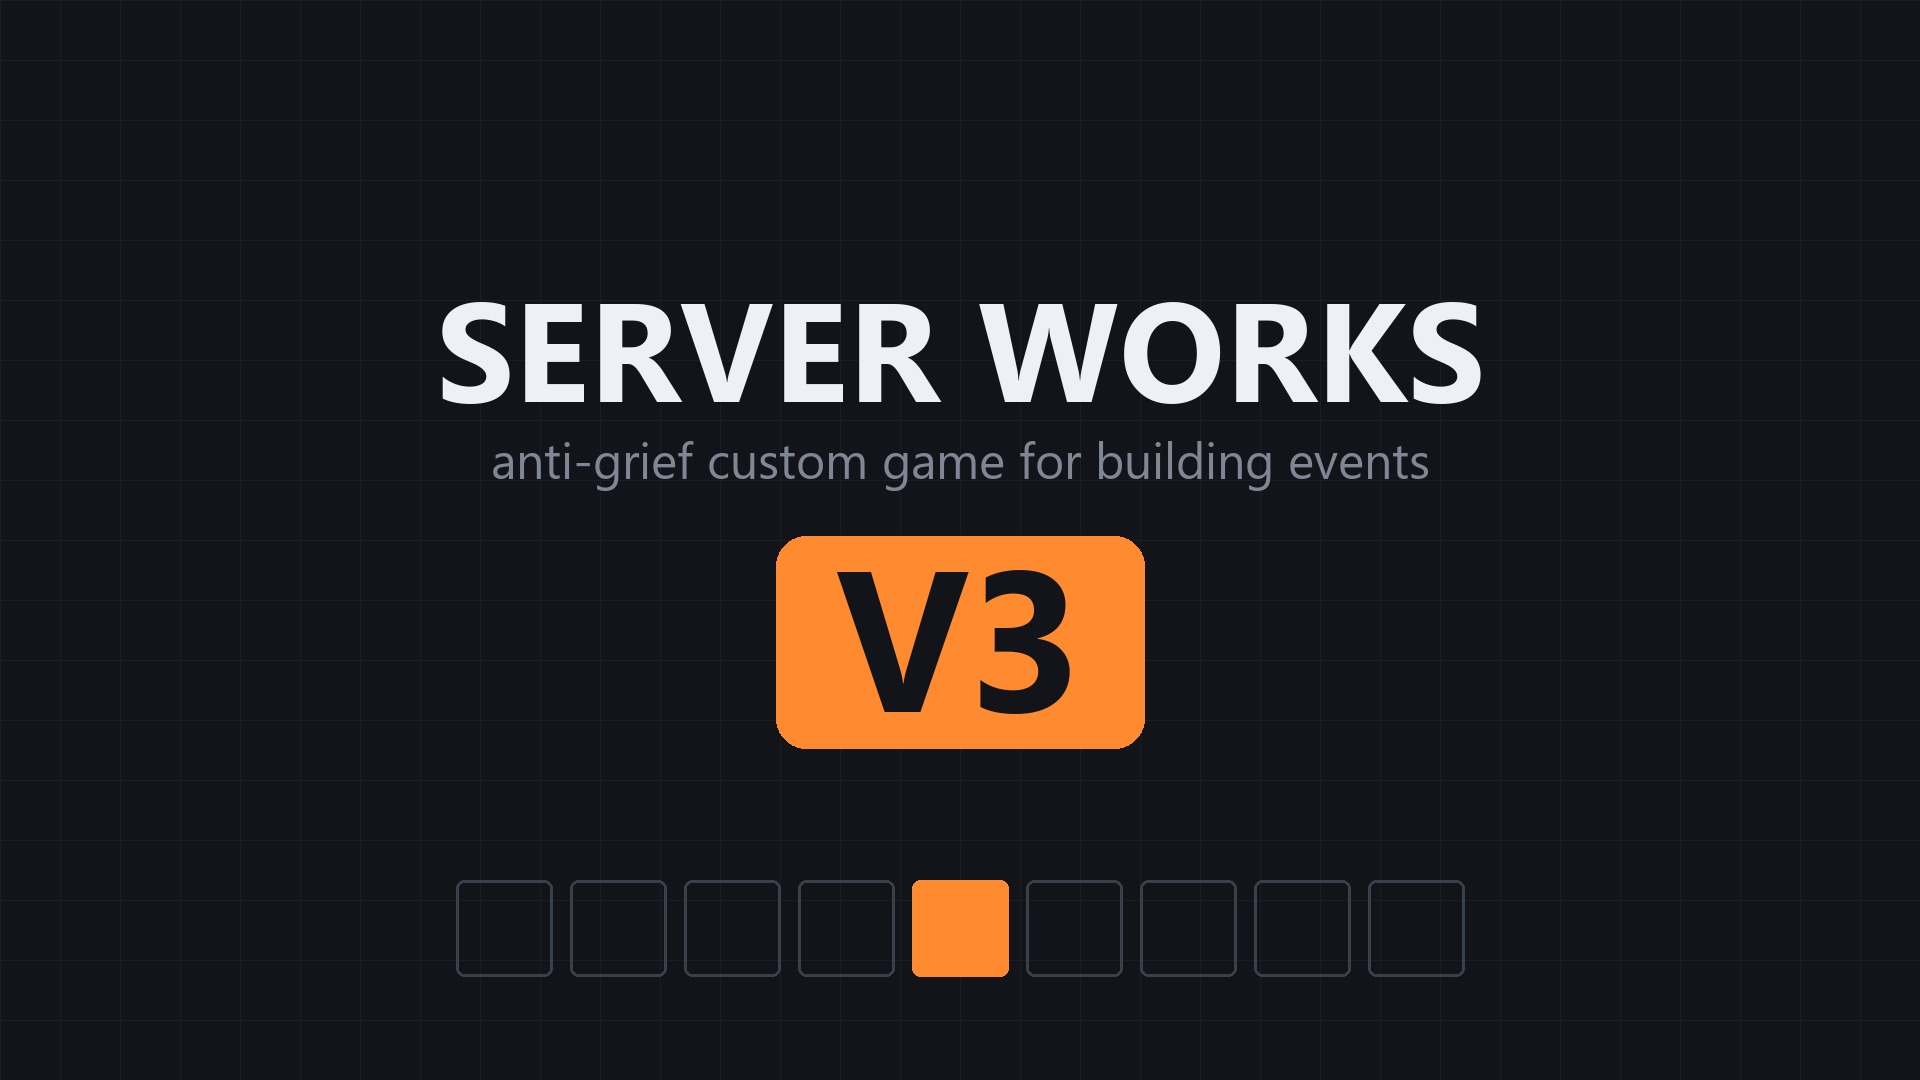
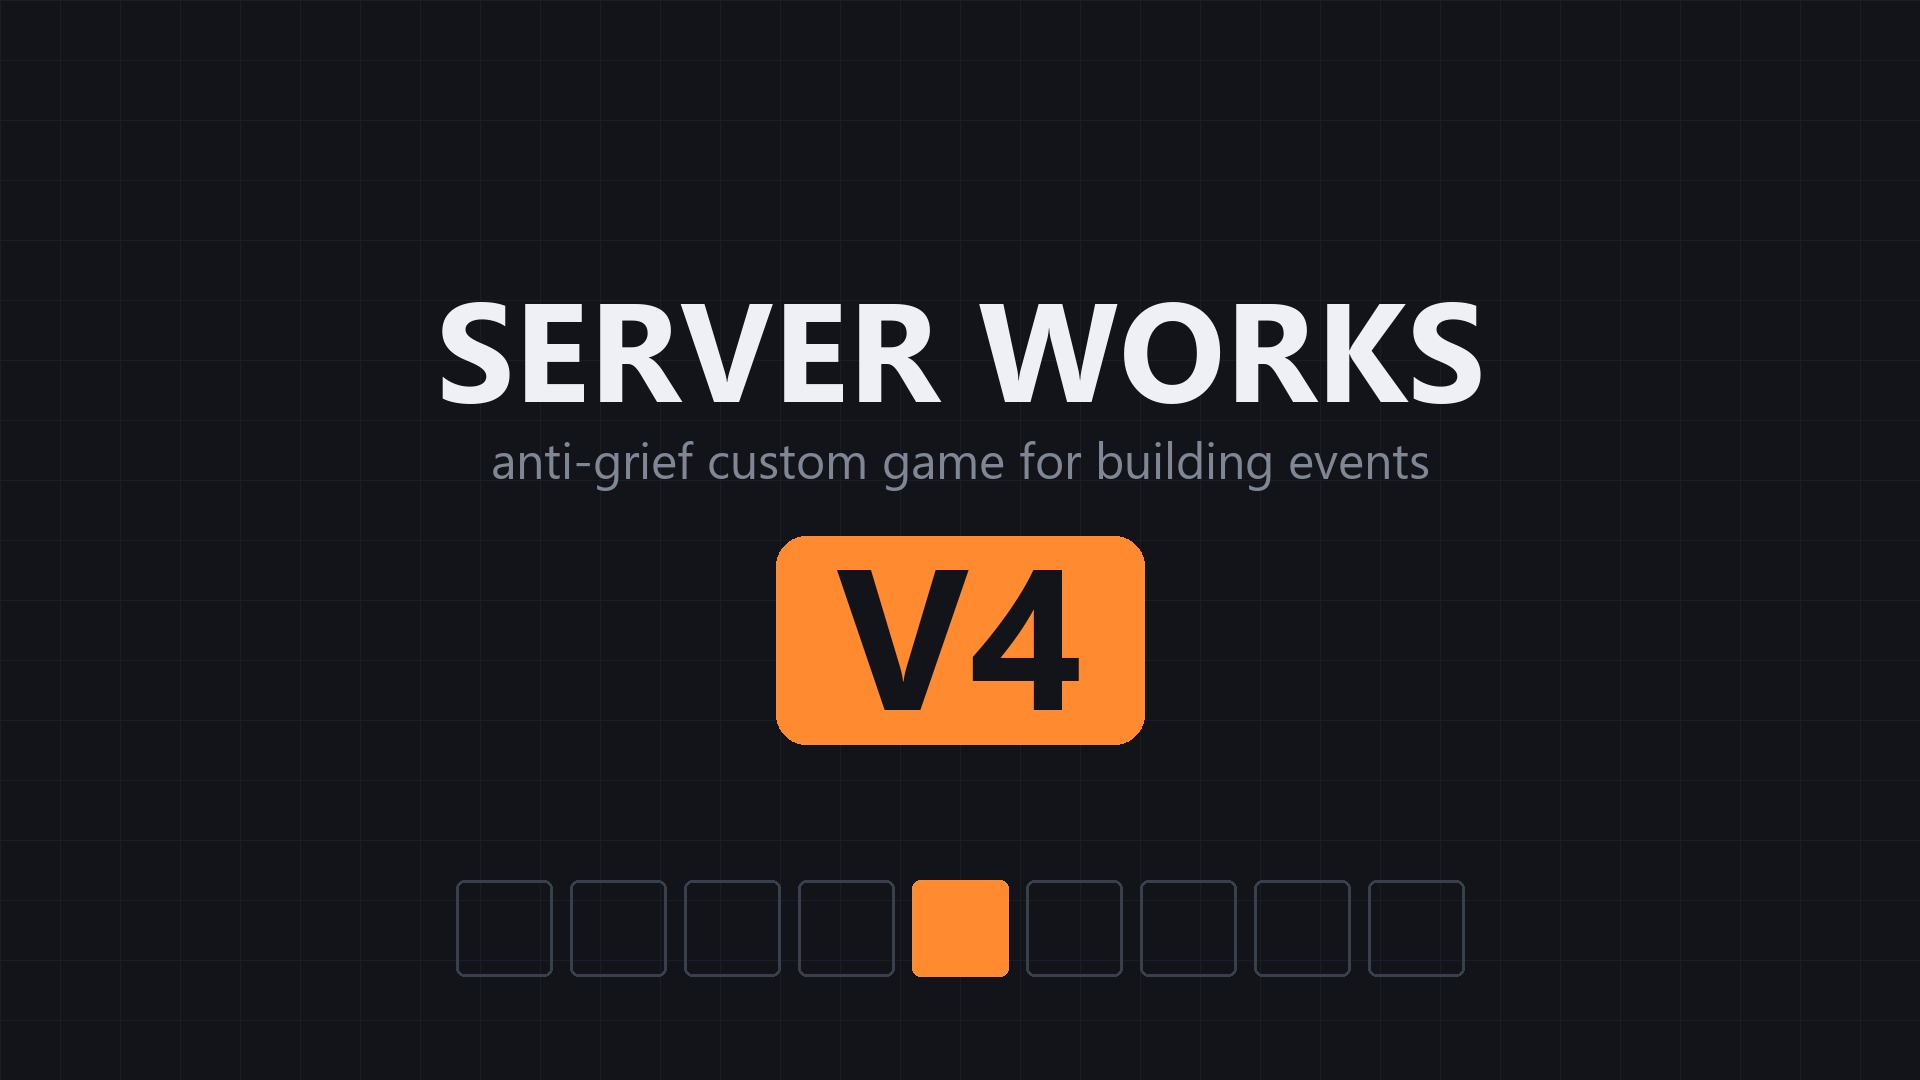
V4: settings panel, /swhelp; cache theory disproved
nugdupS appeared in the creative menu, so mod content does reach the game. The
stale-cache theory is dead and the lift problem is a V2 bug instead.

- Settings panel built from Settings.SCHEMA at runtime rather than a .gui file,
  so adding a setting still costs one schema row and no layout work. Uses
  onClickData (HideoutTrader.lua:318) so one callback serves every row. Every
  click round-trips to the server; the client never decides what is allowed.
- /swhelp as the mod's own help, since the engine reserves /help.
- /settingslist keeps the old chat listing.

Changed region(s): [[0.4062, 0.5194, 0.5938, 0.7028]]

diff --git a/TOMORROW.md b/TOMORROW.md
@@ -1,83 +1,43 @@
-# The stale-cache test — read before launching
+# Where things stand
 
-State: **V3 installed. nugdupS added. Cache deliberately NOT cleared**, so the test
-below is still valid. Do not run `sync_mod.py --clean-cache` until after step 1.
+**V4 installed.** nugdupS confirmed visible in the creative menu, so **mod content does
+reach the game** — the stale-cache theory is disproved and can be dropped.
 
-## The evidence that started this
+That leaves the lift problem as a V2/V3 bug, not a stale mod.
 
-The game keeps a `Cache/` directory **inside the mod folder**:
+## First thing to check: why lifts do not work
 
-    Mods/Server Works/Cache/Raw/game_5ED431A4C9D4E4CE.rco
-                            /world_A5584BCA34E02E16.rco
-                            /protection_72D8B5C91EF3D6FE.rco   ... one per script
-                      /Data/players_1C36AD040C62F3B6.dco
+Type `/protection` in chat.
 
-Measured 2026-08-23:
-
-| file | script written | its cache entry |
+| response | meaning | fix |
 |---|---|---|
-| Game.lua | 23:26:35 | **22:47:36** |
-| World.lua | 23:26:54 | **22:47:36** |
-| Player.lua | 23:26:54 | **22:47:36** |
-| Settings.lua | 23:26:54 | **22:47:36** |
+| `protection: locked` | The world came up locked. `liftable = false` is part of that profile, along with buildable, erasable, paintable and connectable. | `/unlock` — should restore lifts immediately |
+| `protection: open` | Not the lock. Check `buildopen` in `Mods/Server Works/Settings.json`; if false, the resolver in `World.server_onCreate` returns false for every body in the world | `/set buildopen on` |
+| no response at all | The world script is not running | read the log |
 
-Every cache entry is stamped 22:47:36. Every script is newer. The cache was never
-rebuilt across repeated script rewrites — including the whole V2 refactor. If the game
-loads from that cache, no edit since 22:47 has ever run, which is exactly the reported
-symptom and matches the owner's theory.
+If it was `locked`, the cause is the `protection` value now persisted in `Settings.json`
+— new in V2. A run that ended locked comes back locked by design, which is correct
+behaviour for an event but surprising on a test world.
 
-Not yet proof: the `.rco` files might be a build artefact the game ignores at runtime.
-The test below settles it.
-
-## The test
-
-**nugdupS** is a copy of the Spud Gun with a new uuid
-(`748b6656-84b2-440f-8f4c-8cc7deeba63c`), added as new mod content in
-`mod/Tools/Database/`. It behaves exactly like a Spud Gun. It exists only to be
-*visible*: a brand new item in the creative menu is unambiguous in a way a script
-change never is.
-
-### Step 1 — launch as-is, do not clear anything
-
-Search the creative inventory for **nugdupS**.
-
-- **Missing** → mod content is not reaching the game. Theory confirmed. Go to step 2.
-- **Present** → content updates fine, and the "lifts don't work" problem is a bug in
-  V2, not a stale mod. Skip to "If it was not the cache".
-
-Also check the thumbnail in the Custom Game list — it should read **V3**. If it reads
-V1 or V2, that is the same failure showing in a second place.
-
-### Step 2 — clear the cache and relaunch
-
-    python dev/sync_mod.py --clean-cache
-
-Launch again and look for nugdupS.
-
-- **Now present** → the mod cache was the whole problem. `--clean-cache` becomes part
-  of every sync from then on, and the V2 fixes have never actually been tested.
-- **Still missing** → the cache is innocent and something else is stopping content
-  reaching the game. Next suspects: whether a Custom Game auto-discovers
-  `$CONTENT_DATA/Tools/Database/toolsets.tooldb` at all, and whether the item needs a
-  shapeset entry as well as a toolset entry.
-
-`sync_mod.py` now also warns on its own whenever `Cache/` is older than the files it
-just copied.
-
-## If it was not the cache
-
-Then V2 ran and lifts are broken by V2. In game, type `/protection`.
-
-- Reports `locked` → the world came up locked; `liftable = false` is part of that
-  profile. `/unlock` should immediately restore lifts. Cause is a stale `protection`
-  value in `Mods/Server Works/Settings.json`, which is new in V2.
-- No response at all → the world script is not running; read the log.
-- Reports `open` → look at `buildopen` in Settings.json. If false, the resolver in
-  `World.server_onCreate` returns false for every body in the world.
-
-## Either way
+## Then confirm the new code is actually live
 
     python dev/session_stats.py --spam
 
-`[ServerWorks] world ready` is a V2/V3-only log line. If it is absent, the new code
+`[ServerWorks] world ready` is a V2-and-later log line. Absent means the new scripts
 never ran, whatever the reason.
+
+## What is new in V4
+
+- **Settings panel.** `/settings` opens a real GUI instead of printing to chat.
+  Click a value to change it; numbers cycle through presets. `/settingslist` still
+  prints to chat and `/set <name> <value>` still takes exact numbers.
+- **`/swhelp`** — the mod's own help, separate from the game's `/help` (which the
+  engine reserves and refuses to let a mod bind). `/sw` does the same thing.
+
+## Still unverified
+
+Nothing in V4 has been run. The settings panel is the biggest untested piece: the
+json GUI format has no documentation beyond `Data/Gui/JsonGuis/PopUp_YN.gui`, so the
+skin names and the widget tree are inference. If `/settings` errors or opens blank,
+the panel is at fault, not the settings themselves — use `/settingslist` and `/set`
+meanwhile.
